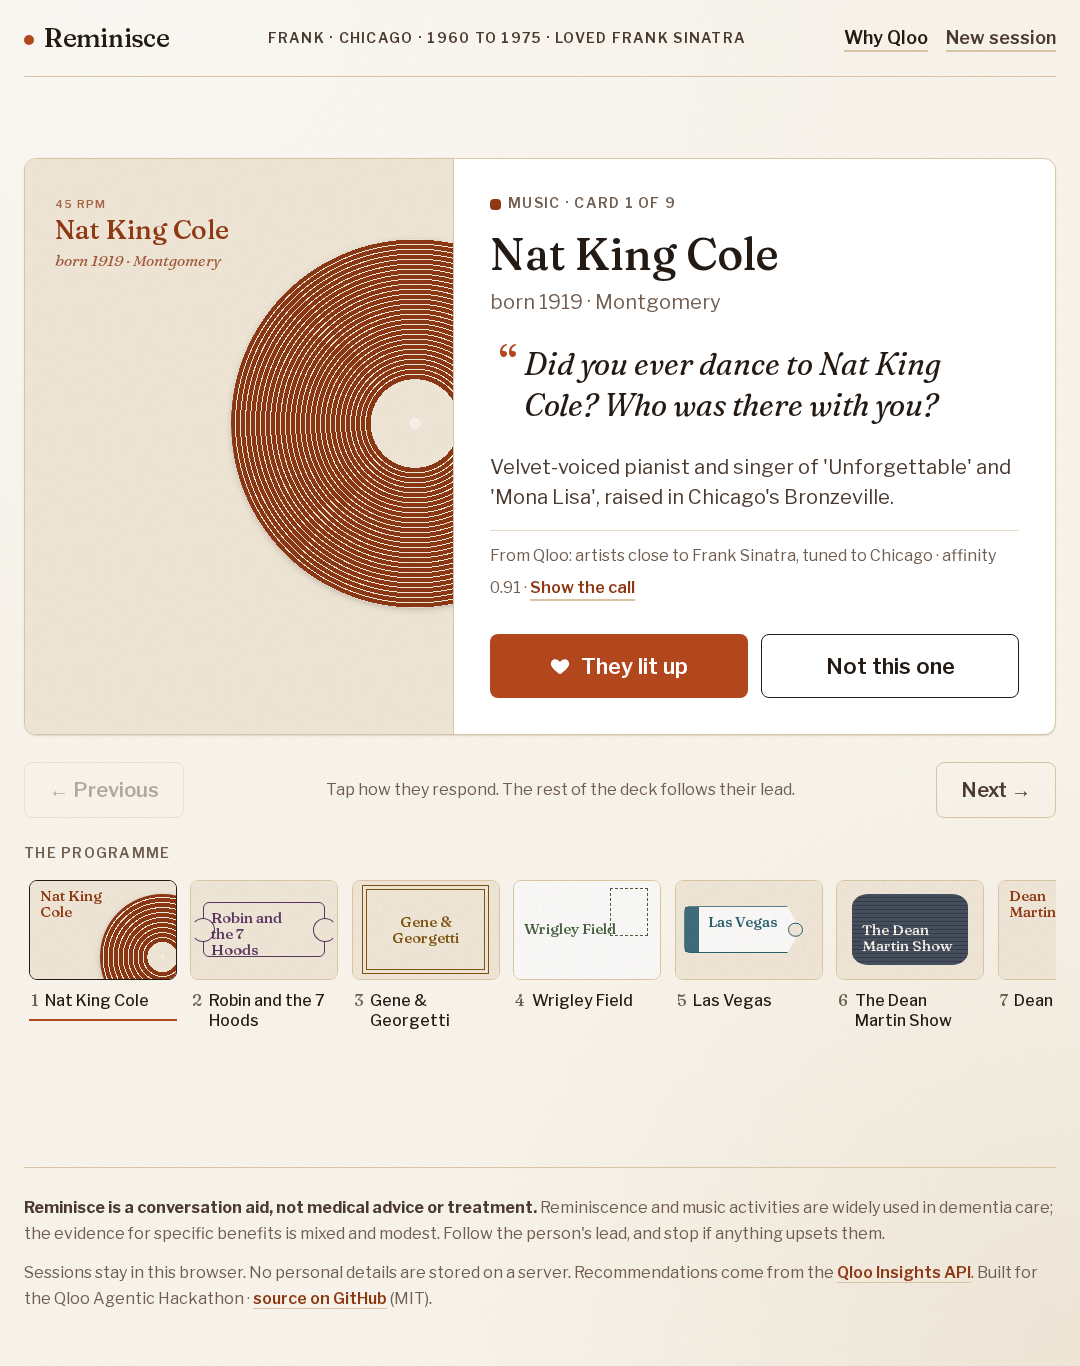
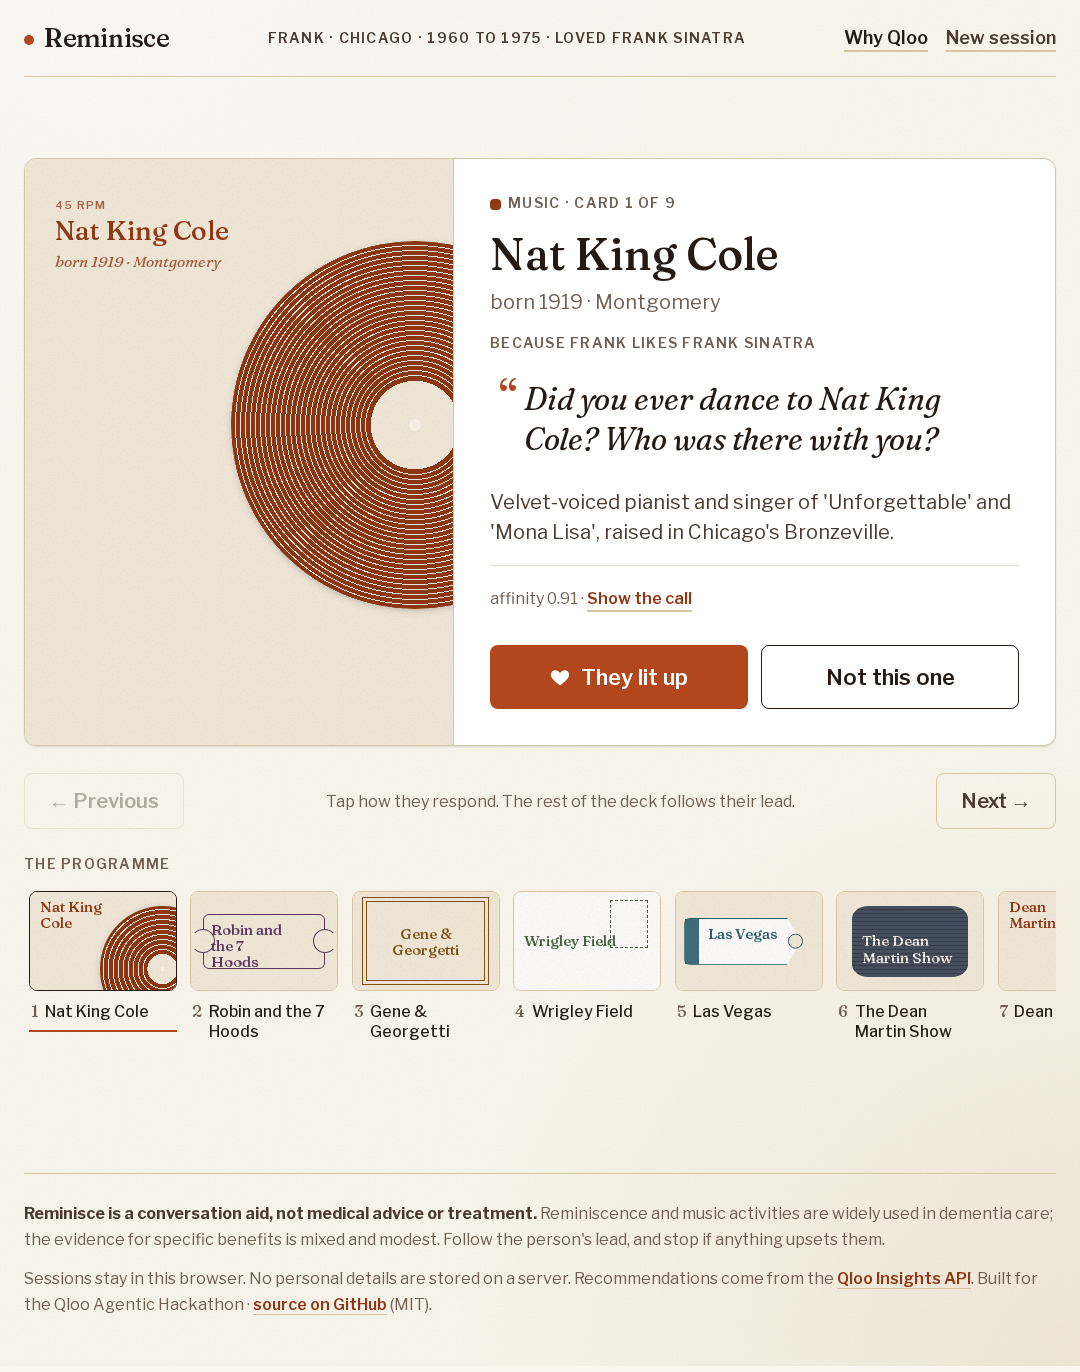
no-mistakes(review): Restore light popularity tie-break and favourite because-line

diff --git a/tests/unit/relevance.test.ts b/tests/unit/relevance.test.ts
@@ -1,7 +1,6 @@
 import { describe, expect, it } from "vitest";
 
 import { artistFit, bornInCountry, type SeedProfile } from "@/lib/agent/relevance";
-import { buildInsightsParams } from "@/lib/qloo/params";
 import { genreTagIdsOf, type QlooEntity, type QlooTag } from "@/lib/qloo/types";
 
 function artist(name: string, over: { tags?: Partial<QlooTag>[]; popularity?: number; start?: number; born?: string; place?: string; affinity?: number } = {}): QlooEntity {
@@ -53,11 +52,32 @@ describe("artistFit", () => {
     expect(withNameless.score).toBe(without.score);
   });
 
-  it("has no popularity term: a household name of the person's own era is as welcome as a quiet one", () => {
+  it("puts a megastar behind on-genre, on-era peers of similar affinity, even for a well-known seed", () => {
     const sinatra = { birthYear: 1945, seeds: [{ name: "Frank Sinatra", genres: ["urn:tag:genre:music:traditional_pop"] }], homeCountry: "United States" };
-    const famous = artistFit(artist("Nat King Cole", { popularity: 1, start: 1935, tags: [genre("traditional_pop")] }), sinatra);
-    const quiet = artistFit(artist("Quiet Crooner", { popularity: 0.3, start: 1935, tags: [genre("traditional_pop")] }), sinatra);
-    expect(famous.score).toBe(quiet.score);
+    const crooner = { start: 1950, place: "New Jersey, United States", tags: [genre("traditional_pop")] };
+    const ranked = [
+      artist("Megastar", { ...crooner, popularity: 0.99, affinity: 0.72 }),
+      artist("Peer One", { ...crooner, popularity: 0.92, affinity: 0.7 }),
+      artist("Peer Two", { ...crooner, popularity: 0.6, affinity: 0.68 }),
+    ]
+      .map((e) => ({ name: e.name, score: artistFit(e, sinatra).score }))
+      .sort((a, b) => b.score - a.score)
+      .map((r) => r.name);
+    expect(ranked).toEqual(["Peer One", "Peer Two", "Megastar"]);
+  });
+
+  it("still ranks a household name first when it is the clearly better fit", () => {
+    const famous = artistFit(artist("Lonnie Donegan Band", { popularity: 0.99, start: 1956, place: "Glasgow, Scotland, United Kingdom", tags: [genre("skiffle"), genre("folk")], affinity: 0.7 }), ctx);
+    const offGenre = artistFit(artist("Quiet Jazz", { popularity: 0.3, start: 1956, place: "Tennessee, United States", tags: [genre("jazz")], affinity: 0.7 }), ctx);
+    expect(famous.score).toBeGreaterThan(offGenre.score);
+  });
+
+  it("marks every household name down alike, so a run of them keeps its order", () => {
+    const sinatra = { birthYear: 1925, seeds: [{ name: "Frank Sinatra", genres: ["urn:tag:genre:music:traditional_pop"] }], homeCountry: "United States" };
+    const cole = artistFit(artist("Nat King Cole", { popularity: 1, start: 1936, tags: [genre("traditional_pop")], affinity: 0.8 }), sinatra);
+    const martin = artistFit(artist("Dean Martin", { popularity: 0.99, start: 1946, tags: [genre("traditional_pop")], affinity: 0.75 }), sinatra);
+    expect(cole.score).toBeGreaterThan(martin.score);
+    expect(cole.score - martin.score).toBeCloseTo(0.05);
   });
 
   it("marks down an act that started after the formative years", () => {
@@ -86,13 +106,5 @@ describe("bornInCountry", () => {
     expect(bornInCountry(artist("a", { place: "Tennessee, United States" }), "United Kingdom")).toBe(false);
     expect(bornInCountry(artist("a", { place: "Osaka, Japan" }), undefined)).toBe(false);
     expect(bornInCountry(artist("a", {}), "Japan")).toBe(false);
-  });
-});
-
-describe("filter.popularity.max", () => {
-  it("is still a documented parameter, sent as a fraction rather than rounded to a whole number", () => {
-    const { params, warnings } = buildInsightsParams({ type: "urn:entity:artist", filters: { popularityMax: 0.84 } });
-    expect(params["filter.popularity.max"]).toBe("0.84");
-    expect(warnings).toEqual([]);
   });
 });

diff --git a/tests/unit/seeded-recs.test.ts b/tests/unit/seeded-recs.test.ts
@@ -88,14 +88,15 @@ describe("a seed that is not mainstream leads the suggestions (live-like Qloo)",
     for (const card of result.cards) expect(card.tags.every((t) => typeof t === "string" && t.length > 0)).toBe(true);
   });
 
-  it("does not name the favorite on its own cards, since the why-line already does", async () => {
+  it("says which favorite each seeded card is because of", async () => {
     const { result } = await planLive();
-    for (const card of result.cards) expect(card.becauseOf).toBeUndefined();
-    const music = result.cards.find((c) => c.domain === "music")!;
-    expect(music.why).toContain("Lonnie Donegan");
+    const music = result.cards.filter((c) => c.domain === "music");
+    expect(music.length).toBeGreaterThanOrEqual(3);
+    for (const card of music) expect(card.becauseOf).toEqual({ name: "Lonnie Donegan", via: "favorite" });
+    for (const card of result.cards.filter((c) => c.domain === "dining" || c.domain === "place")) expect(card.becauseOf).toBeUndefined();
   });
 
-  it("names the liked card a re-tune leans on, under the typed name of the favorite when that is the seed", async () => {
+  it("names the liked card a re-tune leans on, and the typed favorite when that is the seed", async () => {
     const { result } = await planLive();
     const liked = result.cards.find((c) => c.domain === "music")!;
     const { qloo } = liveClient();
@@ -104,10 +105,10 @@ describe("a seed that is not mainstream leads the suggestions (live-like Qloo)",
       { person, cards: result.cards.map((c) => (c.id === liked.id ? { ...c, reaction: "lit_up" as const } : c)), feedback: { cardId: liked.id, reaction: "lit_up" }, currentIndex: 0 },
       { env: liveEnv, qloo, now: NOW },
     );
-    const leaning = adapted.replacements.filter((r) => r.becauseOf);
+    const leaning = adapted.replacements.filter((r) => r.becauseOf?.via === "lit_up");
     expect(leaning.length).toBeGreaterThanOrEqual(1);
-    for (const r of leaning) expect(r.becauseOf).toBe(liked.title);
-    for (const r of adapted.replacements) expect(r.becauseOf).not.toBe("Lonnie Donegan");
+    for (const r of leaning) expect(r.becauseOf!.name).toBe(liked.title);
+    for (const r of adapted.replacements.filter((r) => r.becauseOf?.via === "favorite")) expect(r.becauseOf!.name).toBe("Lonnie Donegan");
   });
 });
 
@@ -132,6 +133,7 @@ describe("the presets are no worse for it (fixture Qloo)", () => {
         expect(card.signals.params["signal.demographics.age"]).toBeUndefined();
         expect(card.signals.params["signal.interests.entities"]).toBe(result.favorites[0]!.entityId);
         expect(card.signals.seedNames).toEqual([preset.person.favorites[0]!.name]);
+        expect(card.becauseOf).toEqual({ name: preset.person.favorites[0]!.name, via: "favorite" });
       }
       expect(result.cards.length).toBeGreaterThanOrEqual(8);
     });

diff --git a/src/components/session/MemoryCard.tsx b/src/components/session/MemoryCard.tsx
@@ -25,7 +25,8 @@ export function MemoryCard({ card, index, total, onReact, onWhy, disabled, langu
   const reacted = card.reaction;
   const name = displayName(card, language);
   const subline = [name.native, card.subtitle].filter(Boolean).join(" · ");
-  const affinity = card.signals.affinity !== null ? ` · ${t.card.affinity(card.signals.affinity.toFixed(2))}` : "";
+  const affinity = card.signals.affinity !== null ? t.card.affinity(card.signals.affinity.toFixed(2)) : undefined;
+  const provenance = [card.becauseOf?.via === "favorite" ? undefined : `${t.card.fromQloo} ${card.why}`, affinity].filter(Boolean).join(" · ");
   return (
     <article key={card.id} aria-labelledby={`card-title-${card.id}`} className="surface animate-fade-in grid overflow-hidden md:grid-cols-[minmax(0,5fr)_minmax(0,7fr)]" data-testid="memory-card">
       <div className="aspect-[4/3] border-b border-paper-300 md:aspect-auto md:min-h-[30rem] md:border-r md:border-b-0">
@@ -54,7 +55,7 @@ export function MemoryCard({ card, index, total, onReact, onWhy, disabled, langu
         </div>
         {card.becauseOf ? (
           <p className="label" data-testid="card-because">
-            {t.card.because(personName, card.becauseOf)}
+            {card.becauseOf.via === "favorite" ? t.card.because(personName, card.becauseOf.name) : t.card.becauseLitUp(personName, card.becauseOf.name)}
           </p>
         ) : null}
         <blockquote className="prompt my-2 ml-[1.1em]" data-testid="card-prompt">
@@ -62,8 +63,7 @@ export function MemoryCard({ card, index, total, onReact, onWhy, disabled, langu
         </blockquote>
         {card.description ? <p className="max-w-[44ch] text-md text-ink-700">{card.description}</p> : null}
         <p className="border-t border-paper-200 pt-3 text-sm text-ink-500">
-          {t.card.fromQloo} {card.why}
-          {affinity} ·{" "}
+          {provenance ? `${provenance} · ` : null}
           <button type="button" onClick={onWhy} className="btn-text btn-text-inline text-sm text-ember-700">
             {t.card.showCall}
           </button>

diff --git a/src/lib/agent/relevance.ts b/src/lib/agent/relevance.ts
@@ -11,9 +11,10 @@
  * alone (see keepSeed in tools.ts), and the person's years and country come
  * back in afterwards, as tie-breaks on this score: a seed-only answer's
  * affinities are nearly flat, so these decide the order, and Qloo cannot let
- * them outweigh the seed. There is no popularity term: the household names of
- * a person's own era (Nat King Cole for a Sinatra fan) are what reminiscence
- * is for, and a seed-only answer does not lead with strangers' favourites.
+ * them outweigh the seed. Popularity is only a light tie-break: no cap goes to
+ * Qloo, since the household names of a person's own era (Nat King Cole for a
+ * Sinatra fan) are what reminiscence is for, but a megastar steps behind an
+ * equally fitting act of similar affinity.
  */
 import { GENRE_TAG_PREFIX, entityAffinity, genreTagIdsOf, type QlooEntity } from "@/lib/qloo/types";
 
@@ -34,6 +35,10 @@ const GENRE_BONUS = 0.3;
 const FORMATIVE_BONUS = 0.15;
 /** Taken off an artist that began performing after the person's formative years: they could not have been heard then. */
 const LATE_PENALTY = 0.3;
+/** Above this popularity percentile an artist is a household name everywhere. */
+export const MAINSTREAM_POPULARITY = 0.97;
+/** Taken off a household name: smaller than every fit bonus, so it only breaks ties among equally fitting acts. */
+const MAINSTREAM_PENALTY = 0.1;
 
 export function foldName(name: string): string {
   return name.normalize("NFKD").replace(/[̀-ͯ]/g, "").toLowerCase().trim();
@@ -94,5 +99,6 @@ export function artistFit(entity: QlooEntity, ctx: ArtistFitContext): ArtistFit 
   else if (started !== undefined && started > to) era -= LATE_PENALTY;
 
   const country = bornInCountry(entity, ctx.homeCountry) ? COUNTRY_BONUS : 0;
-  return { score: base + GENRE_BONUS * genre + era + country, genre, formative };
+  const mainstream = typeof entity.popularity === "number" && entity.popularity > MAINSTREAM_POPULARITY ? MAINSTREAM_PENALTY : 0;
+  return { score: base + GENRE_BONUS * genre + era + country - mainstream, genre, formative };
 }

diff --git a/src/lib/agent/tools.ts b/src/lib/agent/tools.ts
@@ -737,19 +737,20 @@ export function subtitleFor(domain: Domain, e: QlooEntity, language: Language = 
 const BECAUSE_DOMAINS: ReadonlySet<Domain> = new Set(["music", "film", "tv", "destination"]);
 
 /**
- * The card this one leans on: when a re-tune chose it near a card the person
- * lit up, that card (Qloo's explainability says which seed counted most; the
- * card that just lit up when it says nothing). A typed favorite is not named:
- * the why-line already says "close to {favorite}", so repeating it adds
- * nothing. Only for domains a seed's taste shapes; a restaurant is chosen for
- * the town, not for a singer.
+ * The seed a card is "because of": the one Qloo says contributed most, else the
+ * first. A typed favorite is named as the caregiver typed it; any other seed is
+ * a card the person lit up that a re-tune leans on. Only for domains a seed's
+ * taste shapes; a restaurant is chosen for the town, not for a singer.
  */
-function becauseOf(entry: PoolEntry, domain: Domain, ctx: ToolContext): string | undefined {
+function becauseOf(entry: PoolEntry, domain: Domain, ctx: ToolContext): Card["becauseOf"] {
   if (!BECAUSE_DOMAINS.has(domain) || entry.seedIds.length === 0) return undefined;
   const contributions = explainabilityOf(entry.entity) ?? {};
   const best = [...entry.seedIds].sort((a, b) => (contributions[b] ?? 0) - (contributions[a] ?? 0))[0];
-  if (!best || ctx.favorites.some((f) => f.entityId === best)) return undefined;
-  return ctx.names.get(best) ?? ctx.pool.get(best)?.entity.name;
+  if (!best) return undefined;
+  const favorite = ctx.favorites.find((f) => f.entityId === best);
+  if (favorite) return { name: favorite.name, via: "favorite" };
+  const name = ctx.names.get(best) ?? ctx.pool.get(best)?.entity.name;
+  return name ? { name, via: "lit_up" } : undefined;
 }
 
 function explainabilityOf(e: QlooEntity): Record<string, number> | undefined {

diff --git a/src/lib/qloo/params.ts b/src/lib/qloo/params.ts
@@ -186,8 +186,6 @@ export interface InsightsRequest {
     geocodeCountryCode?: string;
     /** `filter.popularity.min` */
     popularityMin?: number;
-    /** `filter.popularity.max` (0 to 1): leaves out entities more popular than this. */
-    popularityMax?: number;
     /** `filter.exists` */
     exists?: "properties.image" | "properties.description";
   };
@@ -233,8 +231,7 @@ export function buildInsightsParams(req: InsightsRequest): BuiltParams {
     "filter.location.query": clean(req.filters?.locationQuery),
     "filter.location.radius": num(req.filters?.locationRadius),
     "filter.geocode.country_code": clean(req.filters?.geocodeCountryCode),
-    "filter.popularity.min": fraction(req.filters?.popularityMin),
-    "filter.popularity.max": fraction(req.filters?.popularityMax),
+    "filter.popularity.min": num(req.filters?.popularityMin),
     "filter.exists": req.filters?.exists,
     "feature.explainability": req.explainability ? "true" : undefined,
     "bias.trends": req.biasTrends,
@@ -269,11 +266,6 @@ function clean(value: string | undefined): string | undefined {
 
 function num(value: number | undefined): string | undefined {
   return typeof value === "number" && Number.isFinite(value) ? String(Math.round(value)) : undefined;
-}
-
-/** A 0 to 1 fraction to two decimals: `num` would round it to a whole number. */
-function fraction(value: number | undefined): string | undefined {
-  return typeof value === "number" && Number.isFinite(value) ? String(Math.round(Math.min(1, Math.max(0, value)) * 100) / 100) : undefined;
 }
 
 /** Deterministic query string: sorted keys, standard encoding. */

diff --git a/src/lib/qloo/fixtures.ts b/src/lib/qloo/fixtures.ts
@@ -427,7 +427,6 @@ export class SyntheticQloo {
     const releaseCountries = splitList(params["filter.release_country"]).map(fold);
     const countryCode = params["filter.geocode.country_code"]?.toUpperCase();
     const popularityMin = numberOr(params["filter.popularity.min"]);
-    const popularityMax = numberOr(params["filter.popularity.max"]);
     const take = Math.max(1, Math.min(50, Number(params.take ?? 20) || 20));
     const page = Math.max(1, Number(params.page ?? 1) || 1);
     const explain = params["feature.explainability"] === "true";
@@ -475,7 +474,6 @@ export class SyntheticQloo {
       }
       if (countryCode && e.properties?.geocode?.country_code?.toUpperCase() !== countryCode) continue;
       if (popularityMin !== undefined && (e.popularity ?? 0) < popularityMin) continue;
-      if (popularityMax !== undefined && (e.popularity ?? 0) > popularityMax) continue;
       const tagIds = new Set((e.tags ?? []).map((t) => t.id));
       if (filterTags.length > 0 && !filterTags.some((t) => tagIds.has(t) || tagIds.has(placeTagCounterpart(t)))) continue;
       if (filterLocality) {

diff --git a/tests/unit/i18n.test.ts b/tests/unit/i18n.test.ts
@@ -60,8 +60,10 @@ describe("dictionaries", () => {
     expect(t.trace.asked({ plural: t.domain.music.plural, seeds: "Hibari Misora", tunedTo: "Osaka", age: t.age["55_and_older"] })).toContain("Osaka");
     expect(t.trace.cameBack("Kyoto", 3, 10)).toContain("Kyoto");
     expect(t.keepsake.litTitle("Frank")).toContain("Frank");
-    expect(t.card.because("Frank", "Nat King Cole")).toContain("Nat King Cole");
-    expect(t.card.because("Frank", "Nat King Cole")).toContain("Frank");
+    expect(t.card.because("Frank", "Frank Sinatra")).toContain("Frank Sinatra");
+    expect(t.card.because("Michiko", "Hibari Misora")).toContain("Michiko");
+    expect(t.card.becauseLitUp("Frank", "Nat King Cole")).toContain("Nat King Cole");
+    expect(t.card.becauseLitUp("Frank", "Nat King Cole")).toContain("Frank");
     expect(t.ending.thanks("Frank")).toContain("Frank");
     expect(t.ending.summaryFor("Frank", "Chicago", 1960, 1975)).toContain("Chicago");
     expect(t.intake.favorites(1, 3)).toContain("1/3");

diff --git a/src/lib/session/types.ts b/src/lib/session/types.ts
@@ -110,8 +110,12 @@ export interface Card {
   tags: string[];
   /** One line: which Qloo signal chose this card. */
   why: string;
-  /** The liked card a re-tune chose this one near ("Nat King Cole"); shown as "Because {name} lit up at {becauseOf}". Never a typed favorite: the why-line already names those. */
-  becauseOf?: string;
+  /**
+   * What this card was chosen near: a typed favorite, under the name the
+   * caregiver typed ("Because Frank likes Frank Sinatra"), or a card the
+   * person lit up that a re-tune leans on ("Because Frank lit up at Nat King Cole").
+   */
+  becauseOf?: { name: string; via: "favorite" | "lit_up" };
   /** Gentle conversation prompt for the caregiver to read aloud. */
   prompt: string;
   /** Who wrote the prompt: the LLM, or the offline template set. */

diff --git a/src/lib/i18n/types.ts b/src/lib/i18n/types.ts
@@ -77,8 +77,10 @@ export interface Dictionary {
   card: {
     counter: (index: number, total: number) => string;
     retunedFor: (pronouns: Pronouns) => string;
+    /** "Because Frank likes Frank Sinatra": the typed favorite a card was chosen near. */
+    because: (name: string, favorite: string) => string;
     /** "Because Frank lit up at Nat King Cole": the card a re-tune chose this one near. */
-    because: (name: string, liked: string) => string;
+    becauseLitUp: (name: string, liked: string) => string;
     fromQloo: string;
     affinity: (value: string) => string;
     showCall: string;

diff --git a/src/lib/i18n/ja.ts b/src/lib/i18n/ja.ts
@@ -60,7 +60,8 @@ export const ja: Dictionary = {
   card: {
     counter: (index, total) => `${total}枚中${index}枚目`,
     retunedFor: () => "この方に合わせて調整",
-    because: (name, liked) => `${name}さんが「${liked}」に心を動かされたので`,
+    because: (name, favorite) => `${name}さんの好きな${favorite}から`,
+    becauseLitUp: (name, liked) => `${name}さんが「${liked}」に心を動かされたので`,
     fromQloo: "Qlooより:",
     affinity: (value) => `親和度 ${value}`,
     showCall: "リクエストを見る",

diff --git a/src/lib/i18n/es.ts b/src/lib/i18n/es.ts
@@ -63,7 +63,8 @@ export const es: Dictionary = {
   card: {
     counter: (index, total) => `Tarjeta ${index} de ${total}`,
     retunedFor: () => "Reajustada a su medida",
-    because: (name, liked) => `Porque a ${name} le encantó ${liked}`,
+    because: (name, favorite) => `Porque a ${name} le gusta ${favorite}`,
+    becauseLitUp: (name, liked) => `Porque a ${name} le encantó ${liked}`,
     fromQloo: "De Qloo:",
     affinity: (value) => `afinidad ${value}`,
     showCall: "Ver la consulta",
